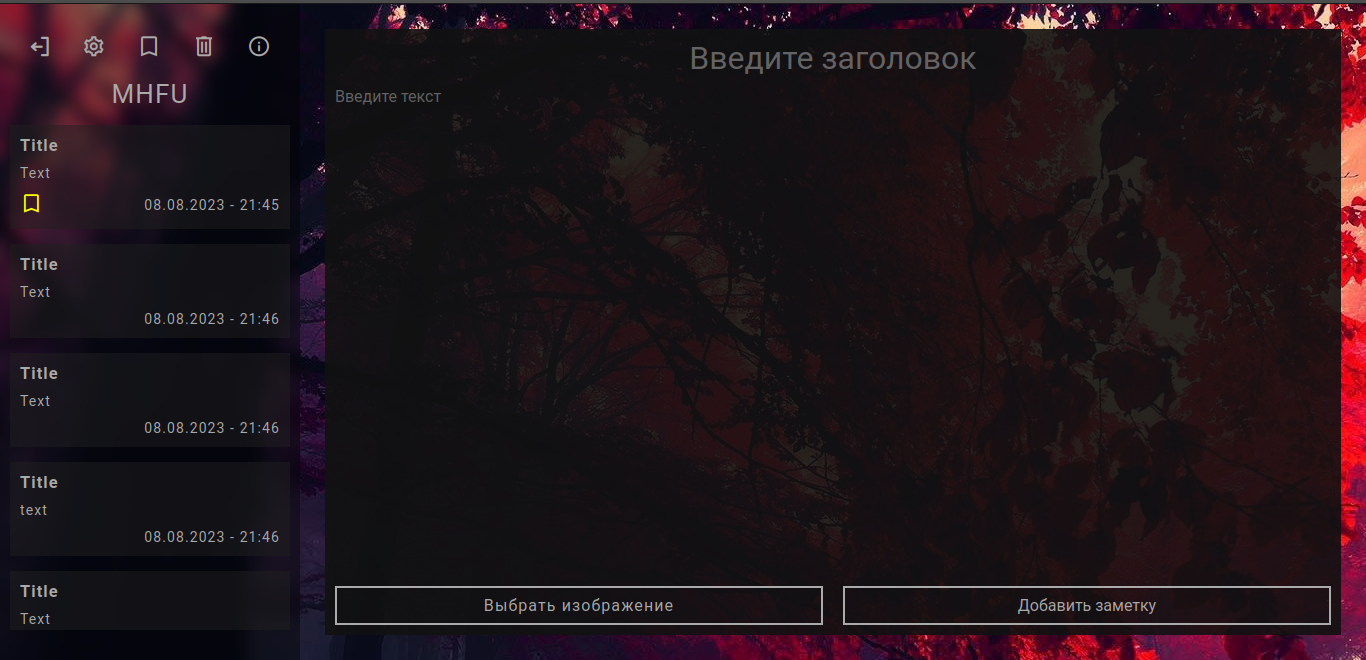
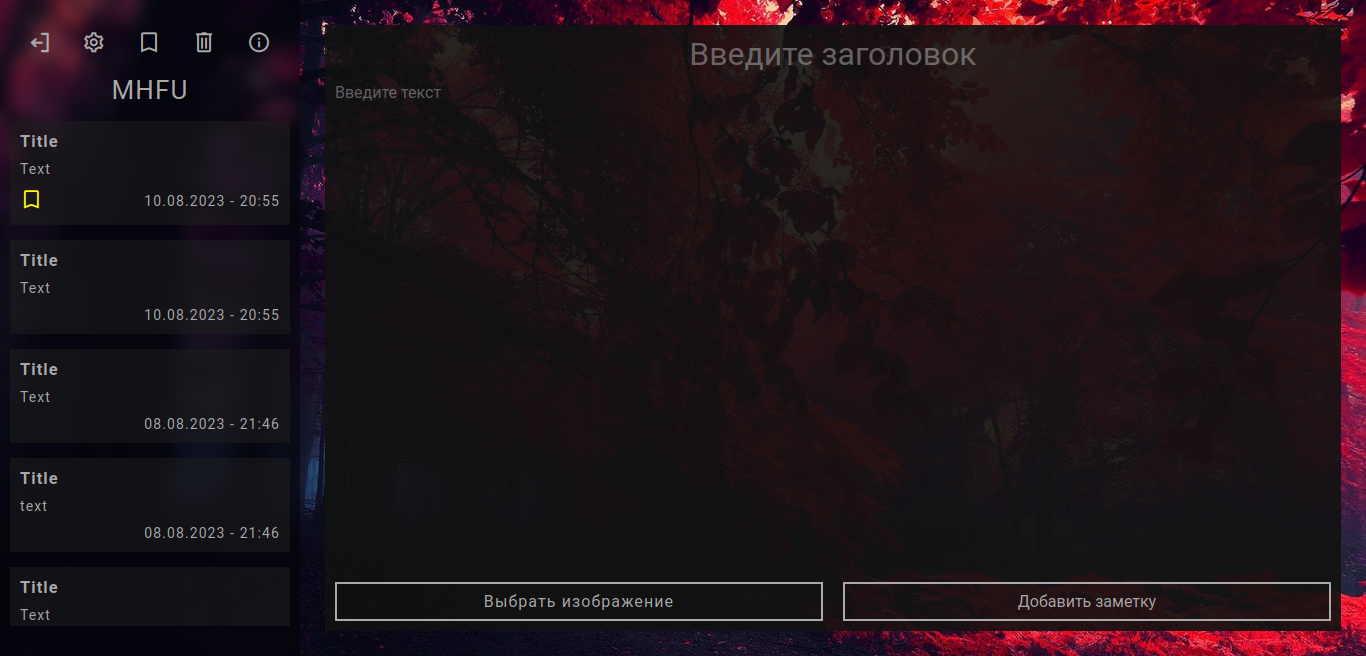
Finished Theme changing. Added styles for 404.

diff --git a/src/main/resources/templates/settings.html b/src/main/resources/templates/settings.html
@@ -6,9 +6,9 @@
   <title>MHFU</title>
   <link rel="stylesheet" href="/css/iconsfont.css">
   <link rel="stylesheet" href="/css/main.css">
+  <link rel="stylesheet" href="/css/settings.css">
   <link id="theme-link" rel="stylesheet" th:href="${userTheme}">
   <link rel="shortcut icon" href="chrome://branding/content/about-logo.png" type="image/x-icon">
-  <link rel="stylesheet" href="/css/settings.css">
 </head>
 <body>
 <div class="wrapper">
@@ -46,21 +46,21 @@
       <div class="theme-container">
         <form class="theme-list" th:action="@{/updateTheme}" th:method="post">
           <label for="submitRed" style="cursor: pointer;">
-            <img src="/../img/redTheme.png" alt="Theme preview">
+            <img src="/../img/redTheme.png" alt="Red Theme">
           </label>
           <button id="submitRed" type="submit" name="theme" value="/css/redTheme.css" style="display: none;">Красная тема</button>
         </form>
 
         <form class="theme-list" th:action="@{/updateTheme}" th:method="post">
           <label for="submitLight" style="cursor: pointer;">
-            <img src="/../img/redTheme.png" alt="Theme preview">
+            <img src="/../img/lightTheme.png" alt="Light Theme">
           </label>
           <button id="submitLight" type="submit" name="theme" value="/css/lightTheme.css" style="display: none;">Красная тема</button>
         </form>
 
         <form class="theme-list" th:action="@{/updateTheme}" th:method="post">
           <label for="submitDark" style="cursor: pointer;">
-            <img src="/../img/redTheme.png" alt="Theme preview">
+            <img src="/../img/darkTheme.png" alt="Dark Theme">
           </label>
           <button id="submitDark" type="submit" name="theme" value="/css/darkTheme.css" style="display: none;">Красная тема</button>
         </form>

diff --git a/src/main/resources/templates/404.html b/src/main/resources/templates/404.html
@@ -5,11 +5,17 @@
     <meta name="viewport"
           content="width=device-width, user-scalable=no, initial-scale=1.0, maximum-scale=1.0, minimum-scale=1.0">
     <meta http-equiv="X-UA-Compatible" content="ie=edge">
-    <title>Document</title>
+    <title>404</title>
+    <link rel="stylesheet" href="/css/main.css">
+    <link id="theme-link" rel="stylesheet" th:href="${userTheme}">
 </head>
 <body>
-<p th:text="gfjkkgn"/>
-<h1>404</h1>
-<a th:href="@{/}">главное</a>
+<div class="notFound-container">
+    <div class="blur-container">
+        <h1 class="notFound-title">404</h1>
+        <p class="notFound-text">Запись в базе данных отсутствует.</p>
+        <a class="notFound-text" th:href="@{/}"><span class="underline">На главную</span></a>
+    </div>
+</div>
 </body>
 </html>

diff --git a/src/main/resources/static/css/main.css b/src/main/resources/static/css/main.css
@@ -218,3 +218,39 @@ body {
 .note>:not(:last-child) {
   margin-bottom: 25px;
 }
+
+.notFound-container {
+  display: flex;
+  flex-direction: column;
+  align-items: center;
+  justify-content: center;
+  height: 100vh;
+}
+.blur-container{
+    width: 50%;
+    height: 60%;
+    background-color: rgba(17, 17, 17, 0.9);
+}
+.notFound-title {
+    text-align: center;
+    font-size: 222px;
+}
+.notFound-text {
+  display: block;
+  text-align: center;
+  font-size: 22px;
+  margin-bottom: 16px;
+}
+.underline{
+  position: relative;
+}
+.underline::after {
+  content: "";
+  display: block;
+  width: 100%;
+  height: 2px;
+  background-color: currentColor;
+  position: absolute;
+  bottom: -2px;
+  left: 0;
+}

diff --git a/src/main/resources/static/css/lightTheme.css b/src/main/resources/static/css/lightTheme.css
@@ -1,3 +1,29 @@
 body{
-    background-color: #fff;
+    background: url("/../img/bg-light.jpg") no-repeat center center;
+    background-size: cover;
+    color: #fff;
+}
+.icon-logout:before {
+  color: #fff;
+}
+.icon-trash:before {
+  color: #fff;
+}
+.icon-bookmark:before {
+  color: #fff;
+}
+.icon-user:before {
+  color: #fff;
+}
+.icon-settings:before {
+  color: #fff;
+}
+.icon-edit:before {
+  color: #fff;
+}
+.icon-help:before {
+  color: #fff;
+}
+.icon-add:before {
+  color: #fff;
 }

diff --git a/src/main/resources/templates/index.html b/src/main/resources/templates/index.html
@@ -25,7 +25,7 @@
         <li><a th:href="@{/trash}" title="Корзина" class="header__link icon-trash"></a></li>
         <li><a href="" title="Справка" class="header__link icon-help"></a></li>
       </ul>
-      <div class="add-notes logo">MHFU</div>
+      <div class="add-notes logo"><span class="underline">MHFU</span></div>
     </header>
     <ul class="notes">
       <li class="notes__item" th:each="el : ${posts}">

diff --git a/src/main/resources/static/css/redTheme.css b/src/main/resources/static/css/redTheme.css
@@ -1,3 +1,4 @@
 body{
-    background: url("/../img/bg.jpg");
+    background: url("/../img/bg.jpg") no-repeat center center;
+    background-size: cover;
 }

diff --git a/src/main/resources/static/css/darkTheme.css b/src/main/resources/static/css/darkTheme.css
@@ -1,3 +1,4 @@
 body{
-    background-color: green;
+    background: url("/../img/bg-dark.jpg") no-repeat center center;
+    background-size: cover;
 }

diff --git a/src/main/java/com/pack/v2/contollers/StarredController.java b/src/main/java/com/pack/v2/contollers/StarredController.java
@@ -71,6 +71,9 @@ public class StarredController {
         if(post.getIsDeleted()){
             return "404";
         }
+        if(!post.getIsStarred()){
+            return "404";
+        }
         List<Post> posts = postRepository.findAllByUserIdAndIsStarredTrueAndIsDeletedFalseOrderByCreatedDateDesc(user.getId());
         model.addAttribute("posts", posts);
         ArrayList<Post> res = new ArrayList<>();
@@ -107,6 +110,9 @@ public class StarredController {
             return "404";
         }
         if(post.getIsDeleted()){
+            return "404";
+        }
+        if(!post.getIsStarred()){
             return "404";
         }
         ArrayList<Post> res = new ArrayList<>();
